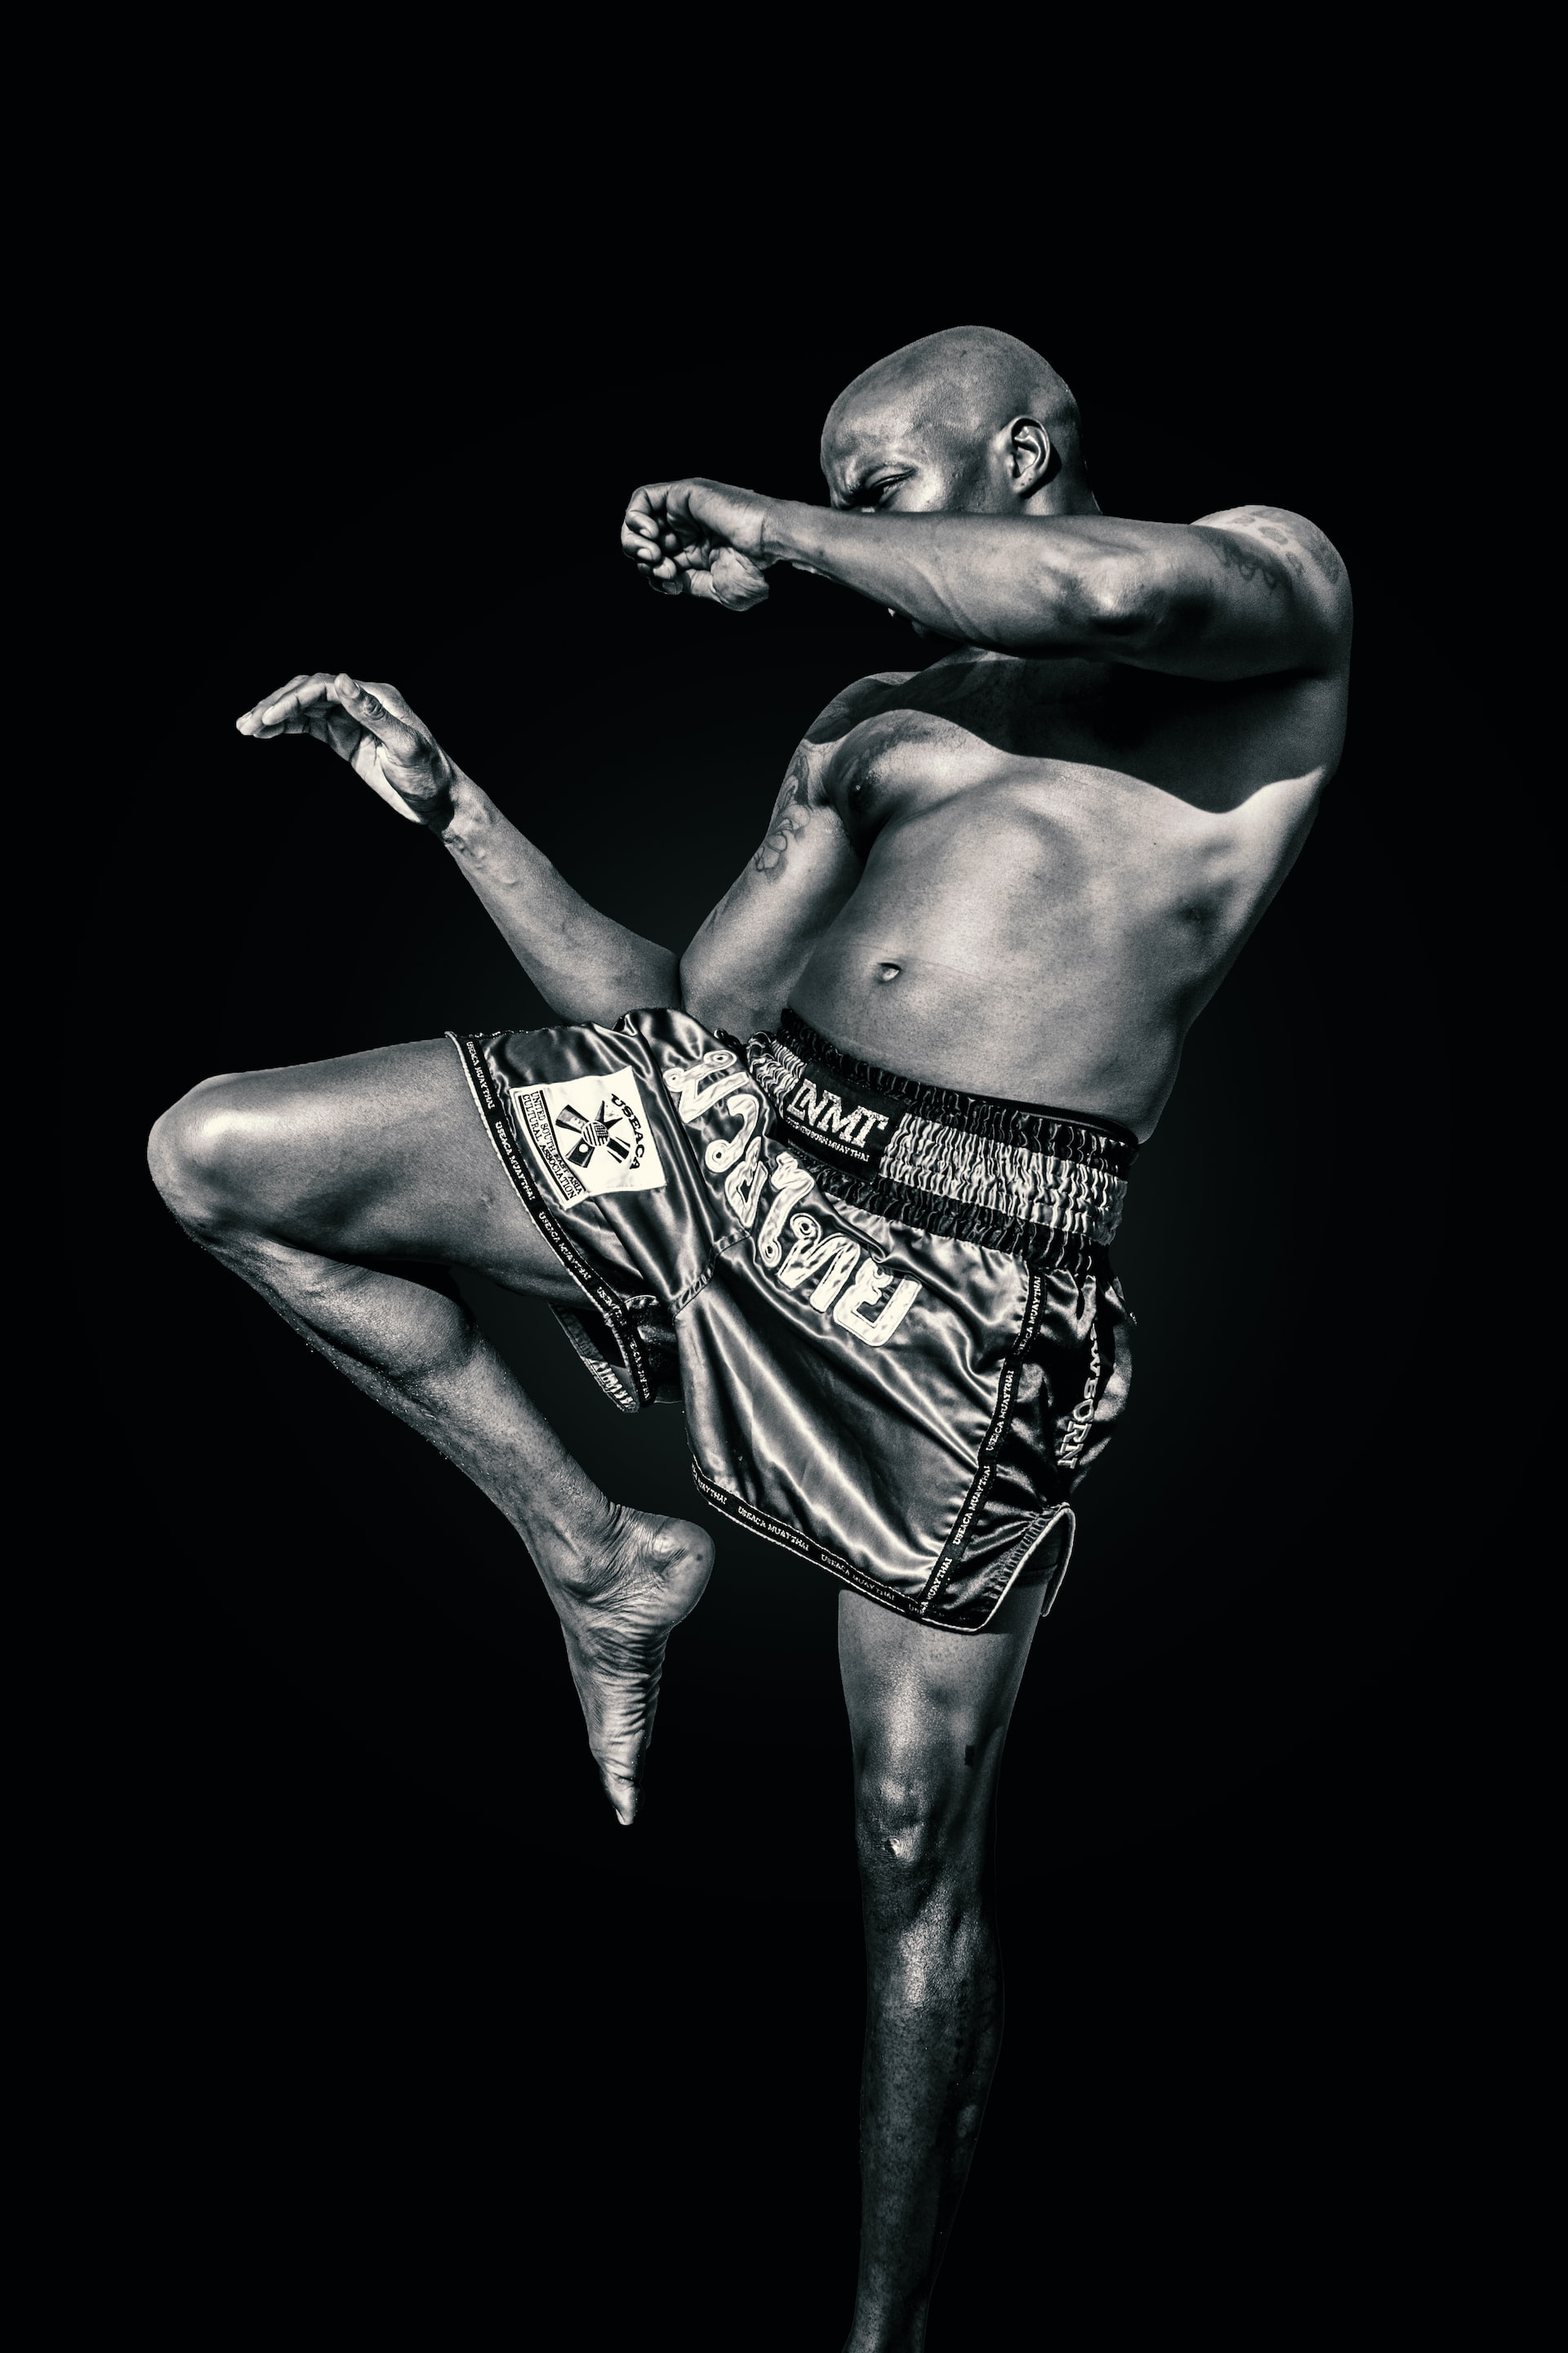
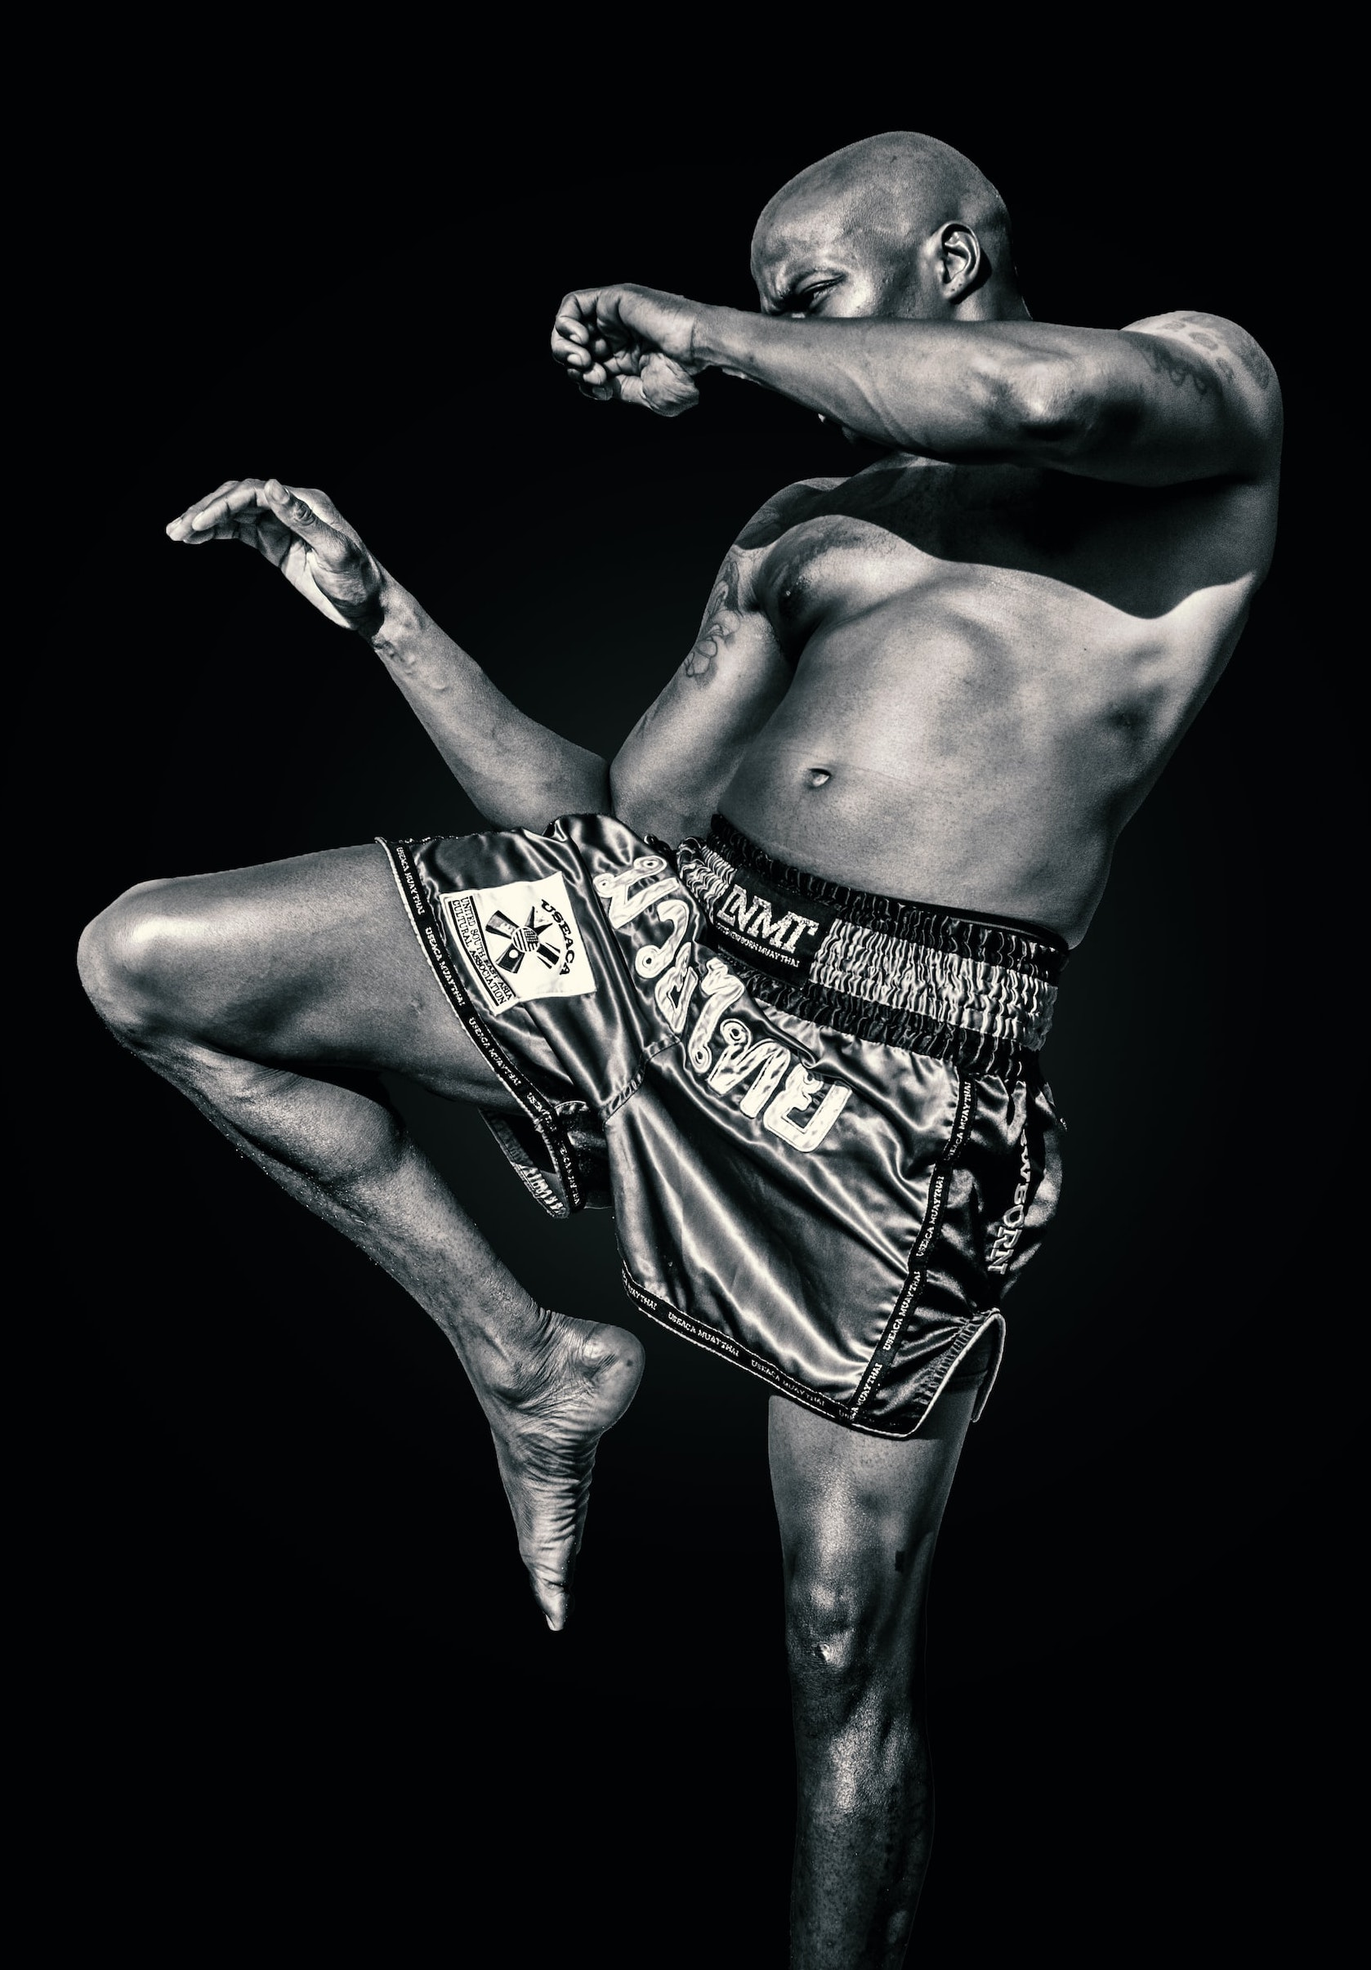
Refractor code for Services component

Changed region(s): [[0.031, 0.0622, 0.9607, 1.0]]

diff --git a/components/Services.js b/components/Services.js
@@ -1,6 +1,6 @@
 import React from 'react'
 import Image from 'next/image'
-import HeavyBag from '../public/assets/heavybag.jpg'
+import HeavyBag from '../public/assets/heavybag2.png'
 import { MartialIcons } from '../data/MartialIcons'
 import Kickboxing from '../public/assets/icons/kickboxing-icon.png'
 import Grappling from '../public/assets/icons/grappling-icon.png'
@@ -8,48 +8,51 @@ import MMA from '../public/assets/icons/MMA-icon.png'
 import MuayThai from '../public/assets/icons/muaythai_icon.png'
 import Silat from '../public/assets/icons/silat-icon.png'
 import Workout from '../public/assets/icons/workout-icon.png'
+import BJJ from '../public/assets/bjj.png'
+import JKD from '../public/assets/icons/JKD.png'
 
-const Services = () => {
-  return (
-    <div className='max-w-[1240px] w-full h-screen mx-auto grid md:grid-cols-2 border-4 border-black rounded'>
-        <Image className='h-[800px] object-cover' src={HeavyBag} alt='/'/>
-        <div className= 'flex flex-col items-center bg-white'>
-            <div className='text-center'>
-                <h1 className='font-bold md:text-6xl sm:text-5xl text-3xl text-red-400 my-[32px] p-4 text-center'>Start your journey</h1>
-                <p className='py-2 text-xl'>True to the spirit of mixed martial arts, we offer a variety of disciplines to help meet your personal goals.</p>
-                <p>Click on the icons below to learn more about each discipline.</p>
+const Services = () =>{
+    return(
+        <div className='max-w-[1240px] mx-auto w-full h-screen rounded-lg mt-[64px] '>
+            <h1 className='font-bold md:text-6xl sm:text-5xl text-3xl text-red-400 text-center py-4'>Start your journey</h1>
+            <div className= 'flex flex-col items-center snap-start text-white'>
+                 <p className='py-2 text-xl'>True to the spirit of mixed martial arts, we offer a variety of disciplines to help meet your personal goals.</p>
+                 <p>Click on the icons below to learn more about each discipline.</p>
             </div>
-            <div className='my-[64px]'>
-                <ul className='w-full mx-auto grid md:grid-cols-3 md:grid-rows-2 gap-8'>
-                    <li className='border-2 rounded-lg p-4 hover:scale-105 duration-300'>
-                        <Image className='w-[125px] h-[125px]'src={Kickboxing} alt='/'/>
-                        <p className='font-bold text-center'>Kickboxing</p>
-                    </li>
-                    <li className='border-2 rounded-lg p-4 hover:scale-105 duration-300'>
-                        <Image className='w-[125px] h-[125px]'src={MMA} alt='/'/>
-                        <p className='font-bold text-center'>MMA</p>
-                    </li>
-                    <li className='border-2 rounded-lg p-4 hover:scale-105 duration-300'>
-                        <Image className='w-[125px] h-[125px]'src={Grappling} alt='/'/>
-                        <p className='font-bold text-center'>Grappling</p>
-                    </li>
-                    <li className='border-2 rounded-lg p-4 hover:scale-105 duration-300'>
-                        <Image className='w-[125px] h-[125px]'src={MuayThai} alt='/'/>
-                        <p className='font-bold text-center'>Muay Thai</p>
-                    </li>
-                    <li className='border-2 rounded-lg p-4 hover:scale-105 duration-300'>
-                        <Image className='w-[125px] h-[125px]'src={Silat} alt='/'/>
-                        <p className='font-bold text-center'>Pencak Silat</p>
-                    </li>
-                    <li className='border-2 rounded-lg p-4 hover:scale-105 duration-300'>
-                        <Image className='w-[125px] h-[125px]'src={Workout} alt='/'/>
-                        <p className='font-bold text-center'>Body Conditioning</p>
-                    </li>
-                </ul>
+
+            <div className='grid items-center md:grid-cols-2 mt-[96px]'>
+                <Image src={BJJ} alt=''/>
+                
+                <ul className='w-full mx-auto grid md:grid-cols-3 md:grid-rows-2 gap-8 text-white'>
+                         <li className='border-2 rounded-lg hover:scale-105 duration-300 '>
+                             <Image className=''src={Kickboxing} alt='/'/>
+                             <p className='font-bold text-center'>Kickboxing</p>
+                         </li>
+                         <li className='border-2 rounded-lg  hover:scale-105 duration-300'>
+                             <Image className=''src={MMA} alt='/'/>
+                             <p className='font-bold text-center'>MMA</p>
+                         </li>
+                         <li className='border-2 rounded-lg  hover:scale-105 duration-300'>
+                             <Image className=''src={Grappling} alt='/'/>
+                             <p className='font-bold text-center'>Grappling</p>
+                        </li>
+                         <li className='border-2 rounded-lg  hover:scale-105 duration-300'>
+                             <Image className=''src={MuayThai} alt='/'/>
+                             <p className='font-bold text-center'>Muay Thai</p>
+                         </li>
+                         <li className='border-2 rounded-lg  hover:scale-105 duration-300'>
+                             <Image className=''src={Silat} alt='/'/>
+                             <p className='font-bold text-center'>Pencak Silat</p>
+                         </li>
+                         <li className='border-2 rounded-lg  hover:scale-105 duration-300'>
+                             <Image className=''src={JKD} alt='/'/>
+                             <p className='font-bold text-center'>Jeet Kune Do</p>
+                         </li>
+                     </ul>
+                
             </div>
         </div>
-    </div>
-  )
+    )
 }
 
 export default Services
